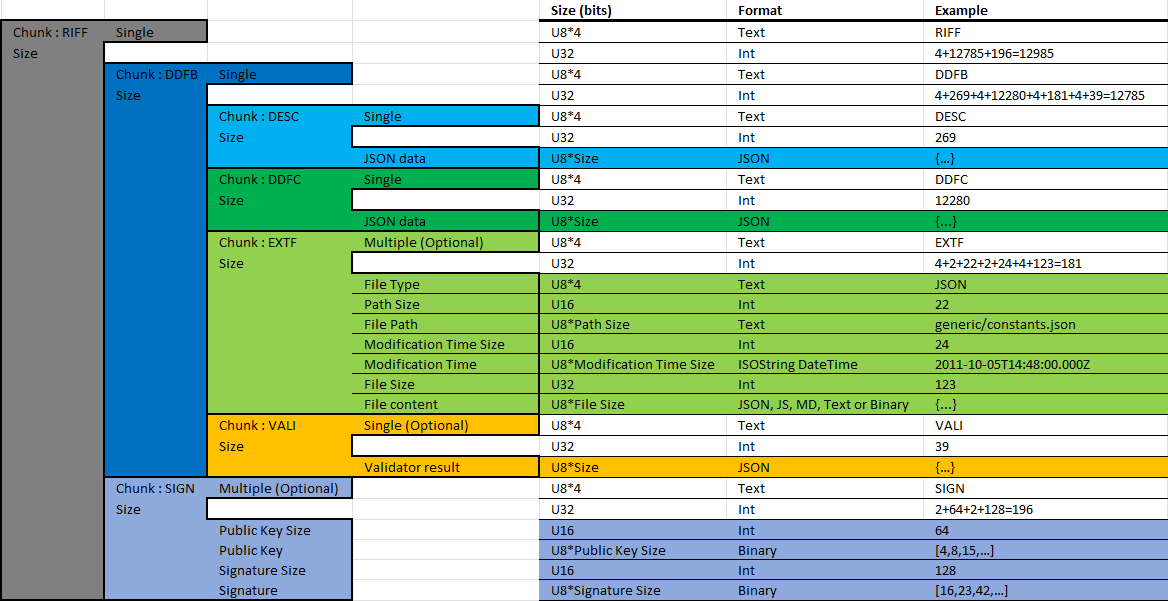
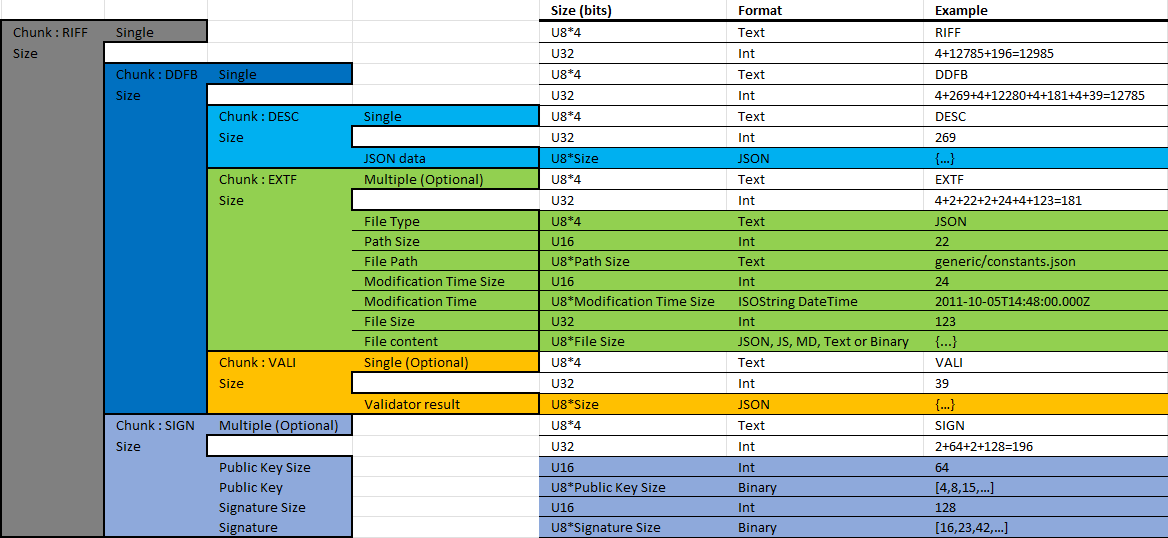
DDFC file is now in the EXTF chunk

diff --git a/packages/bundler/test/bundle.test.ts b/packages/bundler/test/bundle.test.ts
@@ -8,8 +8,8 @@ import { Bundle, decode, encode, getHash } from '../index'
 describe('tests', () => {
   it('should parse without errors', async () => {
     const data = await readFile(path.join(__dirname, 'ddf/starkvind_air_purifier.ddf'))
[4 lines of base64/hex data omitted]
     const blob = new Blob([data])
 
     expect(bytesToHex(await getHash(new Uint8Array(data)))).toEqual(expectedFileHash)
@@ -21,7 +21,7 @@ describe('tests', () => {
 
     expect(bundle.data.name).toEqual('starkvind_air_purifier.ddf')
     expect(bundle.data.desc.product).toEqual('STARKVIND Air purifier')
-    expect(bundle.data.files.length).toEqual(35)
+    expect(bundle.data.files.length).toEqual(36)
 
     const genericAttributes = bundle.data.files.find(file => file.path === 'generic/items/attr_id_item.json')
     expect(genericAttributes).toBeDefined()
@@ -42,10 +42,17 @@ describe('tests', () => {
 
     const fixedDate = new Date('2023-04-27T18:34:00')
 
-    bundle.data.desc.ddfc_last_modified = fixedDate
     bundle.data.desc.last_modified = fixedDate
     bundle.data.name = 'sample.ddf'
     bundle.data.files = [
+      {
+        type: 'DDFC',
+        data: JSON.stringify({
+          schema: 'devcap1.schema.json',
+        }),
+        path: 'ddf.json',
+        last_modified: fixedDate,
+      },
       {
         type: 'JSON',
         data: JSON.stringify({ foo: 'bar' }),
@@ -58,7 +65,7 @@ describe('tests', () => {
 
     const encoded = encode(bundle)
     const newHash = await getHash(new Uint8Array(await encoded.arrayBuffer()))
[2 lines of base64/hex data omitted]
   })
 
   it('should use the correct date', async () => {
@@ -67,9 +74,16 @@ describe('tests', () => {
     const fixedOldDate = new Date('2001-04-27T18:34:00')
     const fixedDate = new Date('2023-04-27T18:34:00')
 
-    bundle.data.desc.ddfc_last_modified = fixedOldDate
     bundle.data.name = 'sample.ddf'
     bundle.data.files = [
+      {
+        type: 'DDFC',
+        data: JSON.stringify({
+          schema: 'devcap1.schema.json',
+        }),
+        path: 'ddf.json',
+        last_modified: fixedOldDate,
+      },
       {
         type: 'JSON',
         data: JSON.stringify({ foo: 'bar' }),

diff --git a/packages/toolbox/src/components/bundle-editor/bundle-editor.vue b/packages/toolbox/src/components/bundle-editor/bundle-editor.vue
@@ -24,9 +24,9 @@ const signatures = computed(() => bundle.value.data.signatures.map((signature) =
   }
 }))
 
-const tab = ref<'info' | 'ddf' | 'files' | 'validation' | 'signatures'>('info')
+const tab = ref<'info' | 'files' | 'validation' | 'signatures'>('info')
 const dirty = ref(false)
-const { cloned: ddfc, sync: syncDDF } = useCloned(() => bundle.value.data.ddfc)
+
 const { cloned: files, sync: syncFiles } = useCloned(() => bundle.value.data.files, {
   clone: (data: typeof bundle.value.data.files) => {
     return [...data.map(item => produce(item, () => {}))]
@@ -34,7 +34,6 @@ const { cloned: files, sync: syncFiles } = useCloned(() => bundle.value.data.fil
 })
 
 async function save() {
-  bundle.value.data.ddfc = ddfc.value
   bundle.value.data.files = files.value
   bundle.value.generateDESC()
   bundle.value.data.hash = await generateHash(bundle.value.data)
@@ -42,13 +41,8 @@ async function save() {
 }
 
 watch(bundle, () => {
-  syncDDF()
   syncFiles()
   dirty.value = false
-})
-
-watch([ddfc, files], () => {
-  dirty.value = true
 })
 
 const hash = computed(() => {
@@ -85,10 +79,6 @@ function setDirty() {
         <v-icon size="x-large" icon="mdi-information" start />
         Info
       </v-tab>
-      <v-tab value="ddf">
-        <v-icon size="x-large" icon="mdi-file-code" start />
-        DDF
-      </v-tab>
       <v-tab value="files">
         <v-icon size="x-large" icon="mdi-file" start />
         {{ `${files.length} ${files.length > 1 ? 'Files' : 'File'}` }}
@@ -118,13 +108,6 @@ function setDirty() {
       <v-window v-model="tab">
         <v-window-item value="info">
           <bundle-editor-info :bundle="bundle" />
-        </v-window-item>
-
-        <v-window-item value="ddf">
-          <bundle-editor-ddfc
-            v-model="ddfc"
-            @change="setDirty()"
-          />
         </v-window-item>
 
         <v-window-item value="files">

diff --git a/packages/toolbox/src/components/bundle-editor/bundle-editor-validation.vue b/packages/toolbox/src/components/bundle-editor/bundle-editor-validation.vue
@@ -15,7 +15,23 @@ const bundle = useVModel(props, 'bundle', emit)
 function validate() {
   const validator = createValidator()
 
-  const ddfc = JSON.parse(bundle.value.data.ddfc)
+  const ddfcSource = bundle.value.data.files.find(file => file.type === 'DDFC')?.data
+
+  if (!ddfcSource) {
+    bundle.value.data.validation = {
+      result: 'error',
+      version: validator.version,
+      errors: [{
+        type: 'simple',
+        message: 'No DDFC file found.',
+      }],
+    }
+
+    emit('change')
+    return
+  }
+
+  const ddfc = JSON.parse(ddfcSource)
 
   if (ddfc.ddfvalidate === false) {
     bundle.value.data.validation = {
@@ -109,13 +125,21 @@ function validate() {
       :text="`${bundle.data.validation?.errors.length} errors found.`"
     />
 
-    <v-card
-      v-for="(error, index) in bundle.data.validation?.errors" :key="index"
-      class="ma-2"
-      variant="outlined"
-      :title="`File : ${error.path[0]}`"
-      :text="`${error.message} at ${error.path.slice(1).join(' ')}`"
-    />
+    <template v-for="(error, index) in bundle.data.validation?.errors" :key="index">
+      <v-card
+        v-if="error.type === 'simple'"
+        class="ma-2"
+        variant="outlined"
+        :text="error.message"
+      />
+      <v-card
+        v-if="error.type === 'code'"
+        class="ma-2"
+        variant="outlined"
+        :title="`File : ${error.file}`"
+        :text="`${error.message} at ${error.path.join('/')}`"
+      />
+    </template>
   </template>
 
   <v-alert

diff --git a/packages/bundler/src/types.d.ts b/packages/bundler/src/types.d.ts
@@ -2,7 +2,6 @@ export interface BundleData {
   name: string
   hash?: Uint8Array
   desc: ChunkDESC
-  ddfc: string
   files: BundleFile[]
   validation?: ValidationResult
   signatures: ChunkSignature[]
@@ -12,7 +11,6 @@ export interface ChunkDESC {
   uuid: string
   version_deconz: string
   last_modified: Date
-  ddfc_last_modified: Date
   product: string
   links?: string[]
   device_identifiers: [string, string][]
@@ -22,13 +20,13 @@ export type BundleFile = TextFile // | BinaryFile
 export type TextFile = JSONFile | ScriptFile | MarkdownFile
 
 interface FileMeta {
-  type: 'SCJS' | 'JSON' /* | 'BTNM' */ | 'CHLG' | 'NOTI' | 'NOTW' | 'KWIS' /* | 'UBIN' | 'IMGP' */
+  type: 'SCJS' | 'JSON' | 'DDFC' /* | 'BTNM' */ | 'CHLG' | 'NOTI' | 'NOTW' | 'KWIS' /* | 'UBIN' | 'IMGP' */
   last_modified?: Date
   path: string
 }
 
 export interface JSONFile extends FileMeta {
-  type: 'JSON' // | 'BTNM'
+  type: 'JSON' | 'DDFC' // | 'BTNM'
   data: string
 }
 

diff --git a/packages/bundler/src/builder.ts b/packages/bundler/src/builder.ts
@@ -1,3 +1,4 @@
+import path from 'node:path'
 import { Bundle } from './bundle'
 import type { TextFile } from './types'
 import { asArray } from './utils'
@@ -52,10 +53,15 @@ export async function buildFromFiles(
   bundle.data.name = `${ddfPath.substring(ddfPath.lastIndexOf('/') + 1, ddfPath.lastIndexOf('.'))}.ddf`
 
   const ddfSource = await getSource(ddfPath)
-  bundle.data.ddfc = await ddfSource.stringData
-  bundle.data.desc.ddfc_last_modified = ddfSource.metadata.last_modified
 
-  const ddfc: Record<string, unknown> = JSON.parse(bundle.data.ddfc)
+  bundle.data.files = [{
+    data: await ddfSource.stringData,
+    path: ddfPath.substring(ddfPath.lastIndexOf('/') + 1),
+    type: 'DDFC',
+    last_modified: ddfSource.metadata.last_modified,
+  }]
+
+  const ddfc: Record<string, unknown> = await ddfSource.jsonData
 
   // Build a list of used constants to only include them in the bundle from the constants.json file
   const usedConstants: {

diff --git a/packages/bundler/src/decoder.ts b/packages/bundler/src/decoder.ts
@@ -93,12 +93,6 @@ export async function decode(file: File | Blob): Promise<ReturnType<typeof Bundl
                     bundle.data.desc = JSON.parse(reader.text(size))
                     if (bundle.data.desc.last_modified)
                       bundle.data.desc.last_modified = new Date(bundle.data.desc.last_modified)
-                    if (bundle.data.desc.ddfc_last_modified)
-                      bundle.data.desc.ddfc_last_modified = new Date(bundle.data.desc.ddfc_last_modified)
-                    break
-                  }
-                  case 'DDFC' : {
-                    bundle.data.ddfc = reader.text(size)
                     break
                   }
                   case 'EXTF' : {

diff --git a/packages/toolbox/src/components/bundle-editor/bundle-editor-files.vue b/packages/toolbox/src/components/bundle-editor/bundle-editor-files.vue
@@ -78,6 +78,7 @@ const tableItems = computed(() => {
 })
 
 const filesTypes = [
+  { type: 'DDFC', desc: 'JSON DDF File', format: 'json' },
   { type: 'SCJS', desc: 'Javascript file for read, write or parse', format: 'javascript' },
   { type: 'JSON', desc: 'Generic files for items / constants', format: 'json' },
   { type: 'CHLG', desc: 'Changelog', format: 'markdown' },
@@ -190,6 +191,7 @@ function selectDirectory(index: number) {
             theme="vs-dark"
             :language="filesTypes.find((type) => type.type === editedItem.type)?.format ?? 'plaintext'"
             height="300px"
+            @change="emit('change')"
           />
         </template>
       </v-card-text>

diff --git a/packages/bundler/src/bundle.ts b/packages/bundler/src/bundle.ts
@@ -10,18 +10,19 @@ export function Bundle() {
       product: 'Unknown device',
       version_deconz: '>2.27.0',
       last_modified: new Date(0),
-      ddfc_last_modified: new Date(0),
       device_identifiers: [],
     },
-    ddfc: '{}',
     files: [],
     signatures: [],
   }
 
   const generateDESC = () => {
-    const ddfc = JSON.parse(data.ddfc)
+    const ddfcSource = data.files.find(file => file.type === 'DDFC')
 
-    data.desc.last_modified = data.desc.ddfc_last_modified
+    if (!ddfcSource)
+      throw new Error('DDFC file not found')
+
+    const ddfc = JSON.parse(ddfcSource.data)
 
     data.files.forEach((file) => {
       if (!file.last_modified)

diff --git a/packages/bundler/src/encoder.ts b/packages/bundler/src/encoder.ts
@@ -82,7 +82,6 @@ export function dataEncoder(chunks: BufferData[] = []) {
 export function encodeDDFB(encoder: ReturnType<typeof dataEncoder>, data: ReturnType<typeof Bundle>['data']) {
   return encoder.chunk(DDF_BUNDLE_MAGIC, [
     encoder.chunk('DESC', encoder.text(JSON.stringify(data.desc))),
-    encoder.chunk('DDFC', encoder.text(data.ddfc)),
     data.files.map(file => encoder.chunk('EXTF', [
       encoder.text(file.type),
       encoder.withLength(encoder.text(file.path), encoder.Uint16),

diff --git a/packages/bundler/src/utils.ts b/packages/bundler/src/utils.ts
@@ -5,8 +5,7 @@ export function asArray<T>(data: T | T[]): T[] {
 }
 
 export function isJSONFileType(type: string): type is JSONFile['type'] {
-  // return ['JSON', 'BTNM'].includes(type)
-  return type === 'JSON'
+  return ['JSON', 'DDFC'/* , 'BTNM' */].includes(type)
 }
 
 export function isScriptFileType(type: string): type is ScriptFile['type'] {

diff --git a/packages/bundler/README.md b/packages/bundler/README.md
@@ -110,16 +110,6 @@ The list of device identifier, it's generated from each combinaison of `manufact
 ]
 ```
 
-### DDFB.DDFC - DDF JSON - unique
-
-```
-U32 'DDFC'
-U32 Chunk Size
-Data[Size]
-```
-
-Holds the base DDF JSON.
-
 ### DDFB.EXTF - External file - multiple
 
 ```
@@ -139,6 +129,7 @@ FileType is a tag to know what kind of file the chunk contain.
 
 | Tag  | Description                              | Data      | Format     |
 |------|------------------------------------------|-----------|------------|
+| DDFC | DDF JSON file (devcap1.schema.json)      | Text file | json       |
 | SCJS | Javascript file for read, write or parse | Text file | javascript |
 | JSON | Generic files for items / constants      | Text file | json       |
 | CHLG | Changelog                                | Text file | markdown   |
@@ -248,8 +239,12 @@ const bundle = Bundle()
 
 bundle.data.name = 'sample.ddf'
 bundle.data.desc.product = 'Sample product'
-bundle.data.ddfc = '{"schema": "devcap1.schema.json"}'
-bundle.data.ddfc_last_modified = new Date()
+bundle.data.files.push({
+  type: 'DDFC',
+  data: '{"schema": "devcap1.schema.json"}',
+  path: 'ddf.json',
+  last_modified: new Date(),
+})
 bundle.data.files.push({
   type: 'JSON',
   data: JSON.stringify({ foo: 'bar' }),

diff --git a/.changeset/tricky-penguins-drop.md b/.changeset/tricky-penguins-drop.md
@@ -1,0 +1,5 @@
+---
+"@deconz-community/ddf-bundler": minor
+---
+
+DDFC file is now in the EXTF chunk
